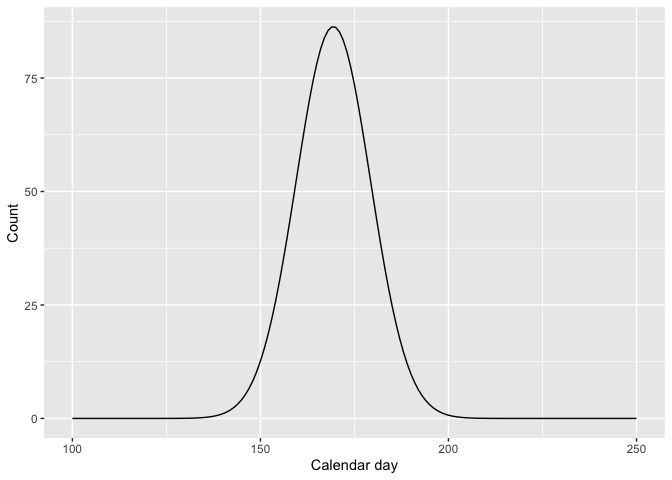
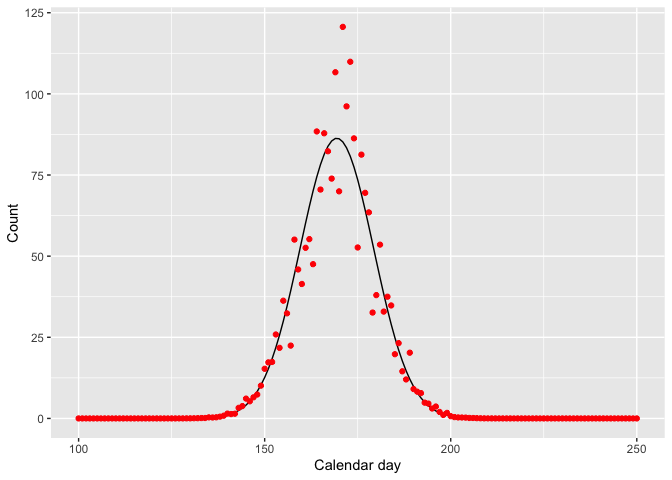
readme

diff --git a/README.md b/README.md
@@ -33,10 +33,13 @@ from streams to the ocean).
 
 ``` r
 ggplot(dplyr::filter(df,year==1), aes(doy,exp(y))) + 
-  geom_line() + xlab("Calendar day") + ylab("Count")
+  geom_line() + xlab("Calendar day") + ylab("Count") + 
+  geom_point(aes(doy,exp(data)),col="red")
 ```
 
-![](README-figs/unnamed-chunk-5-1.png)<!-- -->
+![Predicted (black line) and observed counts (red dots) for hypothetical
+dataset. Multiple observations may exist for some days, or no
+observations on others.](README-figs/unnamed-chunk-5-1.png)
 
 In a given year, the curve might be described by a symmetric or
 asymmetric Gaussian or Student-t distribution (shown here in log-scale
